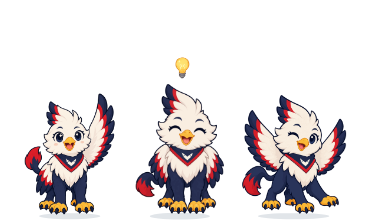
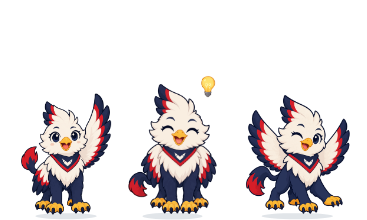
Griffin: đạo cụ bay chéo phía trên bên phải đầu, ngang mào
Trước đạo cụ nằm ngay trên đỉnh mào nên trông như chiếc mũ. Nay lệch sang bên 0,21h, thấp hơn đỉnh mào
0,03h (theo vị trí người dùng khoanh); flip thì sang trái. Mũ tốt nghiệp vẫn đội trên đầu.

diff --git a/vinuni-lesson-video-ds/components/mascot/Griffin.jsx b/vinuni-lesson-video-ds/components/mascot/Griffin.jsx
@@ -152,8 +152,10 @@ export function Griffin({
 
   const props = steps(prop);
   const ph = Math.max(46, h * 0.16);
-  const px = headX + (flip ? 1 : -1) * h * 0.04;
-  const py = topY - ph * 0.7 + Math.sin((frame / 36) * Math.PI * 2) * 5;
+  // floating props hang beside the crest, up and to the facing side of the head (not on top of it, where
+  // they read as a hat); flip mirrors the side
+  const px = headX + (flip ? -1 : 1) * h * 0.21;
+  const py = topY + h * 0.03 + Math.sin((frame / 36) * Math.PI * 2) * 5;
 
   return (
     <g opacity={opacity < 1 ? opacity : undefined}>
@@ -170,7 +172,7 @@ export function Griffin({
         if (!def) return null;
         const o = stepOpacity(props, i, frame, 8);
         const pop = p.at <= 0 && enter === null ? 1 : popScale(frame, Math.max(p.at, enter ?? 0));
-        // a worn prop sits on the head and moves with it; the others float above the crest
+        // a worn prop sits on the head and moves with it; the others float beside the crest
         const size = def.worn ? h * 0.3 : ph * (def.k ?? 1);
         const pw = def.worn ? size : (size * def.w) / def.h;
         const pH = def.worn ? (size * def.h) / def.w : size;

diff --git a/vinuni-lesson-video-ds/components/mascot/Griffin.d.ts b/vinuni-lesson-video-ds/components/mascot/Griffin.d.ts
@@ -40,7 +40,7 @@ export interface GriffinProps {
   hops?: readonly number[];
   /** Constant lean in degrees. */
   tilt?: number;
-  /** Object floating above the head (`hat` is worn) — one prop, or steps on beats (each arrival twinkles once). */
+  /** Object floating beside the crest, on the side the head faces (`hat` is worn) — one prop, or steps on beats (each arrival twinkles once). */
   prop?: GriffinProp | readonly GriffinStep<GriffinProp>[] | null;
   /** URL folder of the pictures. Default: assets/mascot/griffin/ next to dist/vk.js. */
   base?: string;

diff --git a/vinuni-lesson-video-ds/components/mascot/Griffin.prompt.md b/vinuni-lesson-video-ds/components/mascot/Griffin.prompt.md
@@ -32,7 +32,7 @@ tối đa một Griffin.
   cánh chào đón), `cheer` (hai cánh giơ, vui), `rest` (ngồi nghỉ), `walk-left` / `walk-right` (đi chéo —
   tự nhún nhịp bước; tự dịch `x` bằng `interpolate` để đi vào khung).
 - `mood`: `neutral` `happy` `wink` `surprised` `thinking` (nhìn lên) `sad` `stern` (`angry` = `stern`).
-- `prop` (bay trên đầu): `lightbulb` `question` `exclamation` `sparkle` `book` `laptop`; `hat` thì đội lên đầu.
+- `prop` (bay chéo phía trên bên phải đầu, ngang mào — `flip` thì sang trái): `lightbulb` `question` `exclamation` `sparkle` `book` `laptop`; `hat` thì đội lên đầu.
 - Chuyển động: `enter` (bật vào), `motion` `idle` / `float` / `none`, `hops`, `tilt`, `flip`.
 
 `pose`, `mood`, `prop` nhận một tên hoặc danh sách `{ at, name }`. Đặt `at` bằng `spokenAt(n, phrase)`.
@@ -45,7 +45,7 @@ Tư thế nào có biểu cảm nào: `GRIFFIN_POSE_MOODS` (sinh cùng ảnh). G
 
 - Đổi dáng/biểu cảm là **cắt thẳng** kèm một nhịp nhún 8 frame — ảnh là các bản vẽ riêng, chồng mờ sẽ hiện
   hai đường viền. Đừng đổi nhanh hơn ~1 lần/giây, nhân vật sẽ giật.
-- `x, y` là **chân** (tâm đáy). Đạo cụ nằm trên đỉnh mào ~`0.2h` — với `h` 460, đặt `y` ≈ 930 để cả con vẫn
+- `x, y` là **chân** (tâm đáy). Đạo cụ nằm ngang mào, lệch sang bên ~`0.2h` — với `h` 460, đặt `y` ≈ 930 để cả con vẫn
   trong vùng nội dung y 250–960.
 - Không có tay: Griffin không cầm, không chỉ. "Giơ tay" = `wave`. Mỏ không mấp máy theo lời.
 - Ảnh ở `assets/mascot/griffin/` (xem README ở đó để dựng lại từ bộ gốc), URL tính từ `dist/vk.js`; trang nạp
